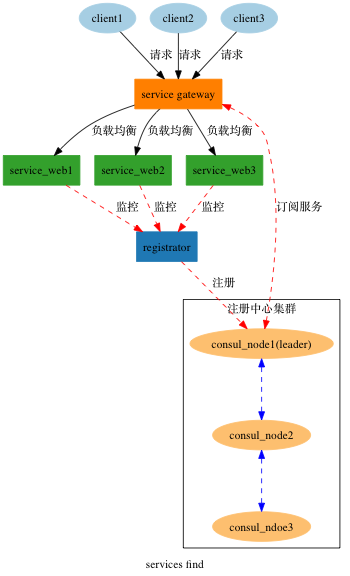
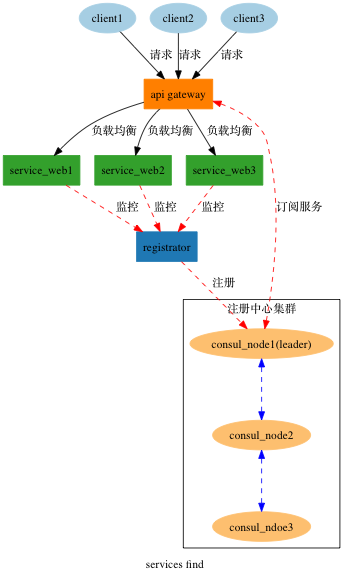
新增网关文章

Changed region(s): [[0.3714, 0.125, 0.6571, 0.1875]]

diff --git a/serviceFind.md b/serviceFind.md
@@ -2,12 +2,14 @@
 
 ## 前言
 
+基于上一篇[基于Docker+Consul+Registrator+Nodejs实现服务治理（一）](https://github.com/chenchunyong/microservices/blob/master/serviceRegister.md)
+我们已经实现服务注册。本篇文章我们着重实现服务发现。
+
+## 服务发现
+
 ![services register](images/registerFlow.png?raw=true)
 
-基于上一篇[基于Docker+Consul+Registrator+Nodejs实现服务治理（一）](https://github.com/chenchunyong/microservices/blob/master/serviceRegister.md)
-我们已经实现服务注册。本篇文章我们实现服务发现。
-
-主要的功能点包括：
+根据上篇的流程图，服务发现实现的功能包括：
 
 - 服务订阅
   - 动态获取服务列表
@@ -17,7 +19,6 @@
   - 缓存服务路由表
 - 服务调用
   - 服务请求的负载均衡策略
-  - 反向代理
 - 变更通知
   - 监听服务节点变化
   - 更新服务路由表
@@ -28,5 +29,4 @@
 
 ![services register](images/serviceFind.png?raw=true)
 
-registratior监控service web，一旦service web 状态发生变化，通知consul cluster做出相应处理，service gateway 订阅consul cluster 的服务，根据负载均衡的策略，把请求转发到对应web处理。 service gateway充当了api网关的角色，当然api网关的功能不仅仅局限于路由机制。
-
+registratior监控service web，一旦service web 状态发生变化，通知consul cluster做出相应处理，api gateway 订阅consul cluster 的服务，根据负载均衡的策略，把请求转发到对应web处理。 api网关的功能比较丰富，包括路由、认证、降级、熔断等功能，

diff --git a/README.md b/README.md
@@ -5,3 +5,5 @@
 ## 服务发现
 
 [基于Docker+Consul+Registrator+Nodejs实现服务治理（一）](https://github.com/chenchunyong/microservices/blob/master/serviceRegister.md)
+
+[基于Docker+Consul+Registrator+Nodejs实现服务治理（二）](https://github.com/chenchunyong/microservices/blob/master/serviceFind.md)
